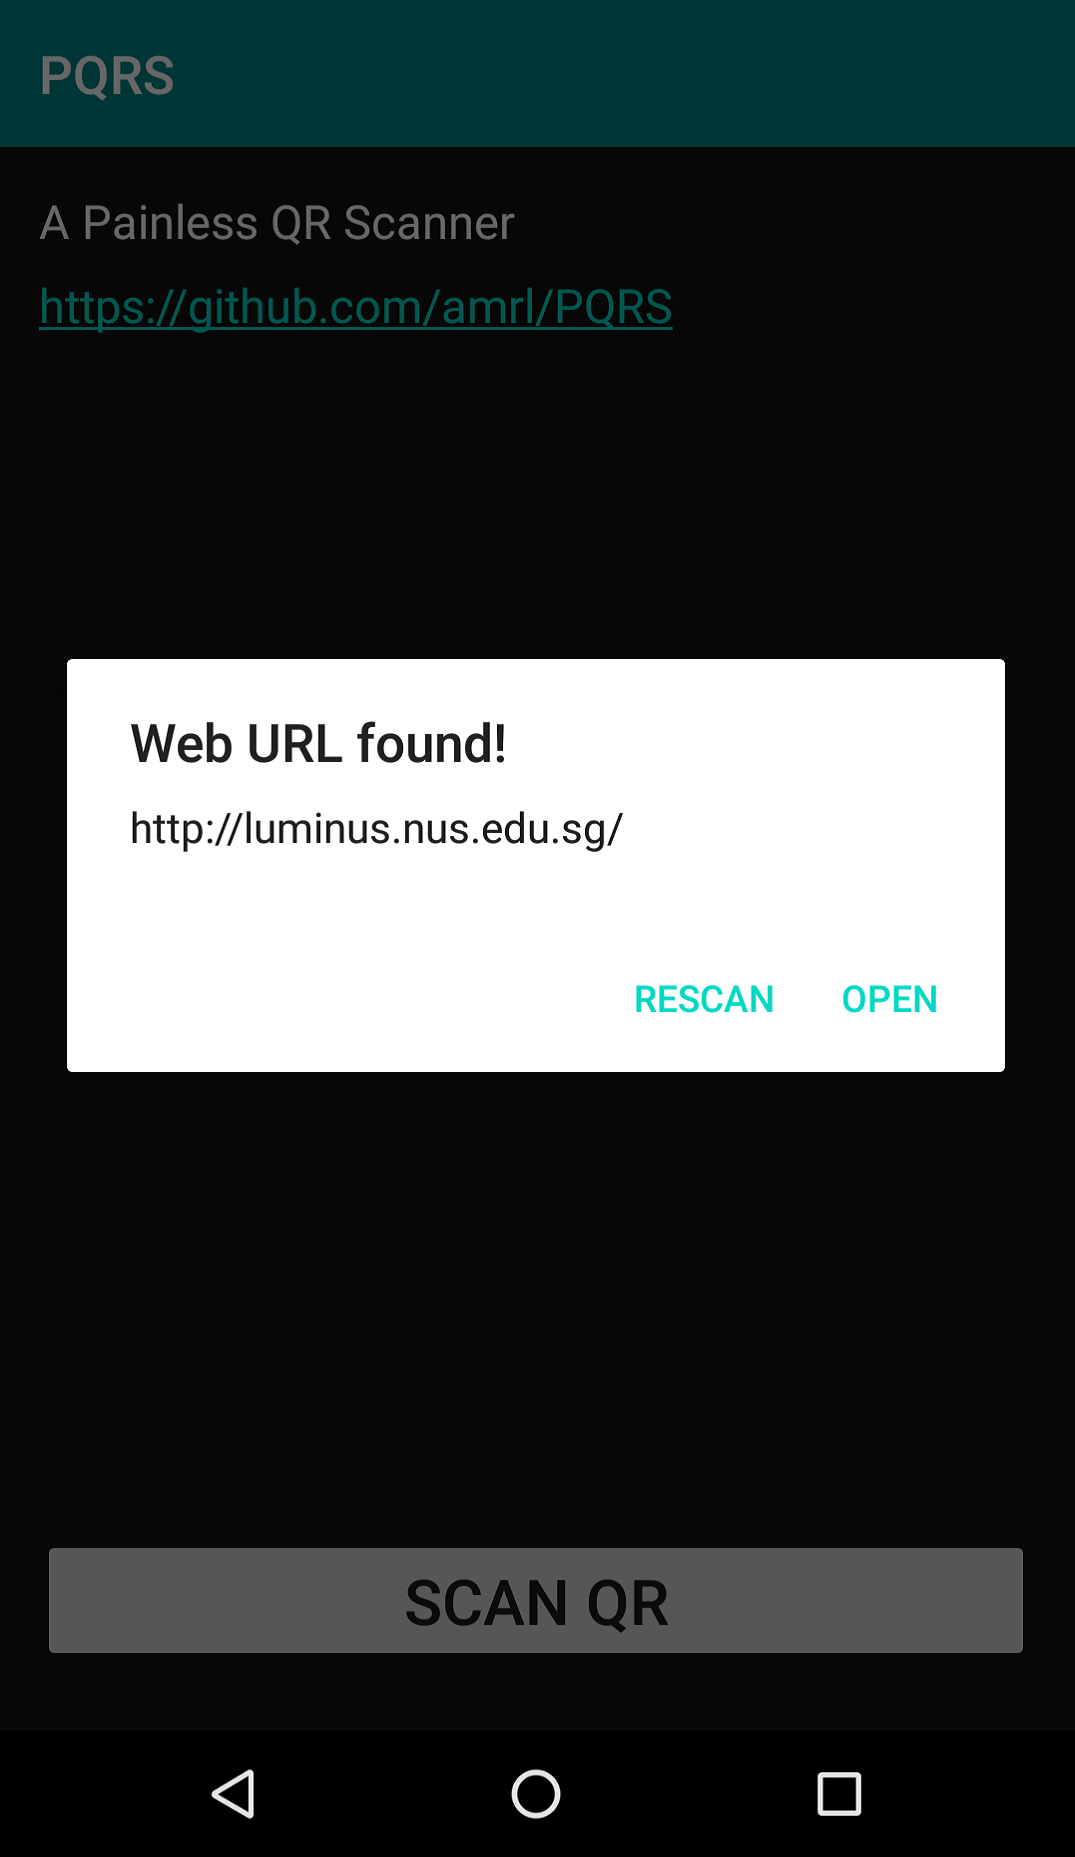
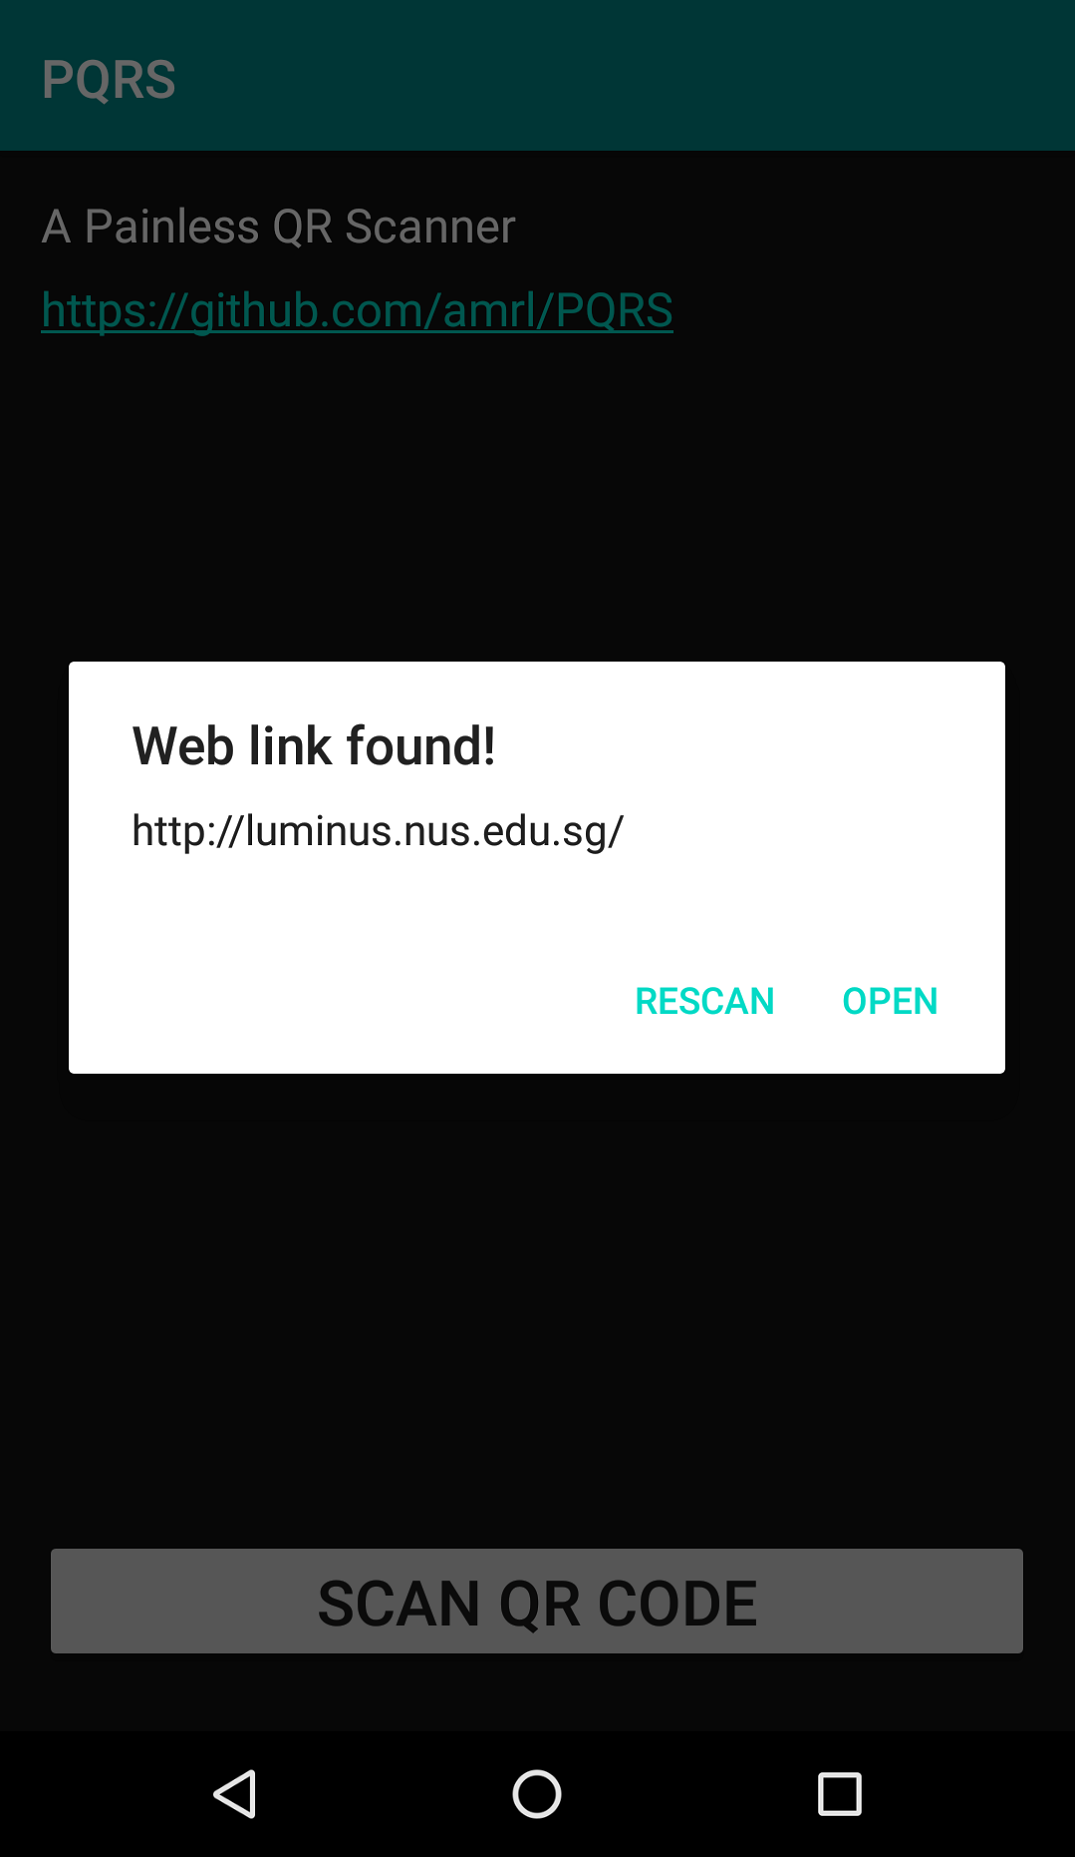
Replace 'URL' with 'link'

diff --git a/app/src/main/java/me/amrl/pqrs/MainActivity.java b/app/src/main/java/me/amrl/pqrs/MainActivity.java
@@ -56,7 +56,7 @@ public class MainActivity extends AppCompatActivity implements View.OnClickListe
         if (Patterns.WEB_URL.matcher(result.getContents()).matches()) {
             final String url = result.getContents();
 
-            alert.setTitle("Web URL found!");
+            alert.setTitle("Web link found!");
             alert.setMessage(result.getContents());
             alert.setPositiveButton("Open", new DialogInterface.OnClickListener() {
                 @Override
@@ -73,7 +73,7 @@ public class MainActivity extends AppCompatActivity implements View.OnClickListe
             });
 
         } else {
-            alert.setTitle("Not a web URL...");
+            alert.setTitle("Not a web link...");
             alert.setMessage(result.getContents());
             alert.setPositiveButton("Rescan", new DialogInterface.OnClickListener() {
                 @Override

diff --git a/README.md b/README.md
@@ -5,6 +5,11 @@ Only for web links.
 
 Scan, view, open. Nothing else.
 
+## Compatibility
+\>= Android 4.1 (Jelly Bean)
+
+Tested up to Android 10.
+
 ## Screenshots
 <img src="./images/scanning.png" height="500" />&nbsp;&nbsp;&nbsp;&nbsp;
 <img src="./images/dialog.png" height="500" />
@@ -12,15 +17,17 @@ Scan, view, open. Nothing else.
 ## Features
 * Scan QR codes for web links
 * View QR code content
-* If it is a web link, you have the option of opening it
+* If it is a web link, you have the option to open it
 * If not, you can still view the text content embedded
+* Dark colour scheme
 
 ## Motivations
 * I only scan QR codes for web links, nothing else
+* I want a quick and easy way to scan with no frills
 * Most QR code scanners in the store request for unnecessary
 permissions (more than just the camera)
 * Most QR code scanners in the store contain ads
 
 ## Acknowledgements
-* [zxing](https://github.com/zxing/zxing)
-* [zxing-android-embedded ](https://github.com/journeyapps/zxing-android-embedded)
+* Barcode scanning library: [zxing-android-embedded ](https://github.com/journeyapps/zxing-android-embedded)
+* Barcode decoding: [zxing](https://github.com/zxing/zxing)
